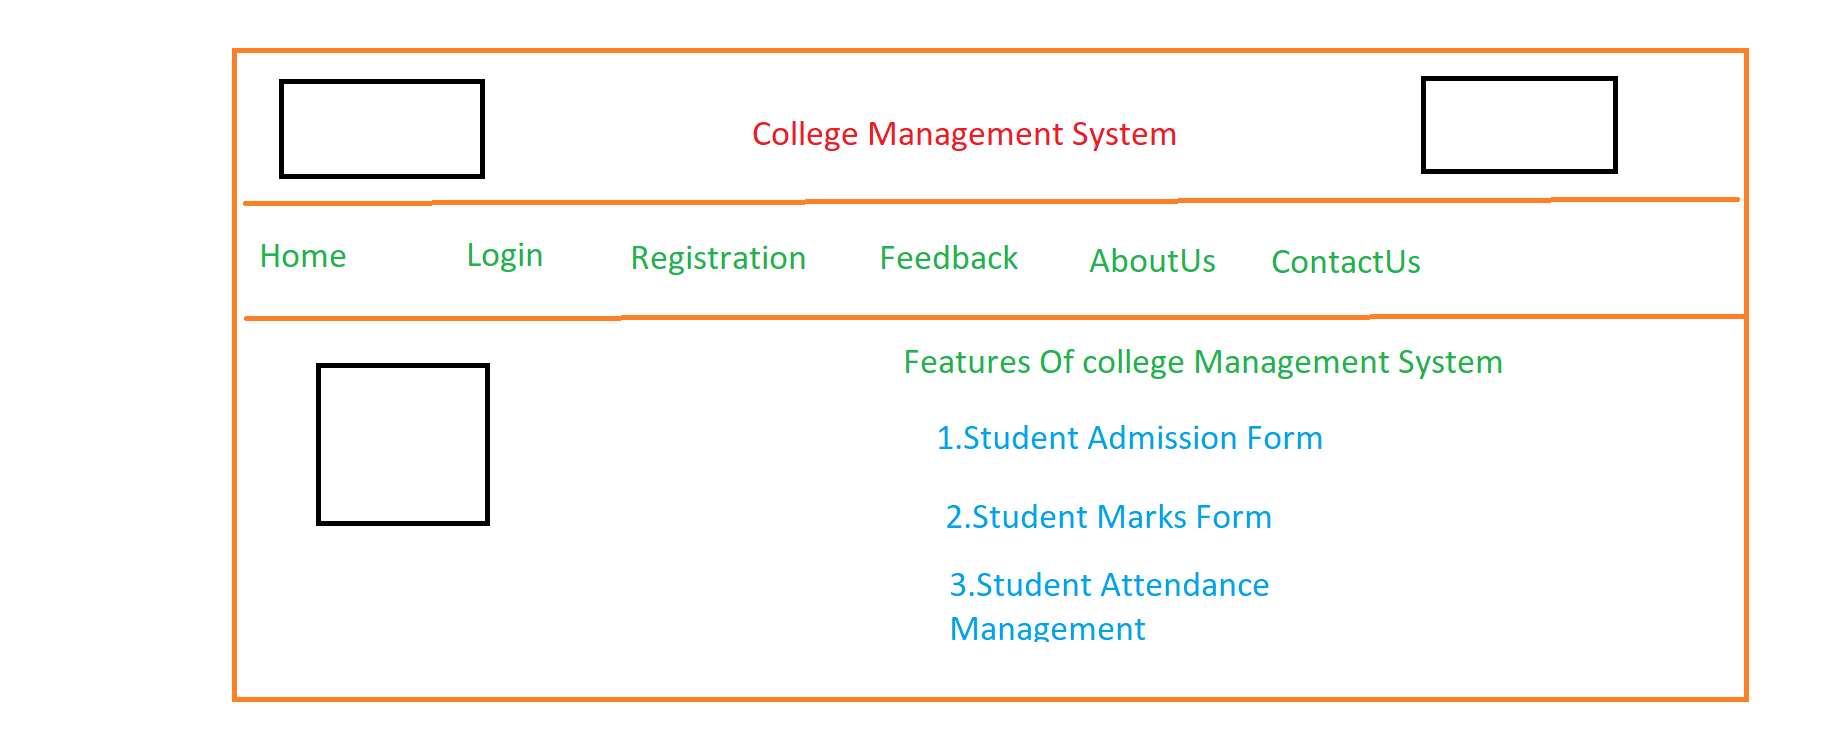
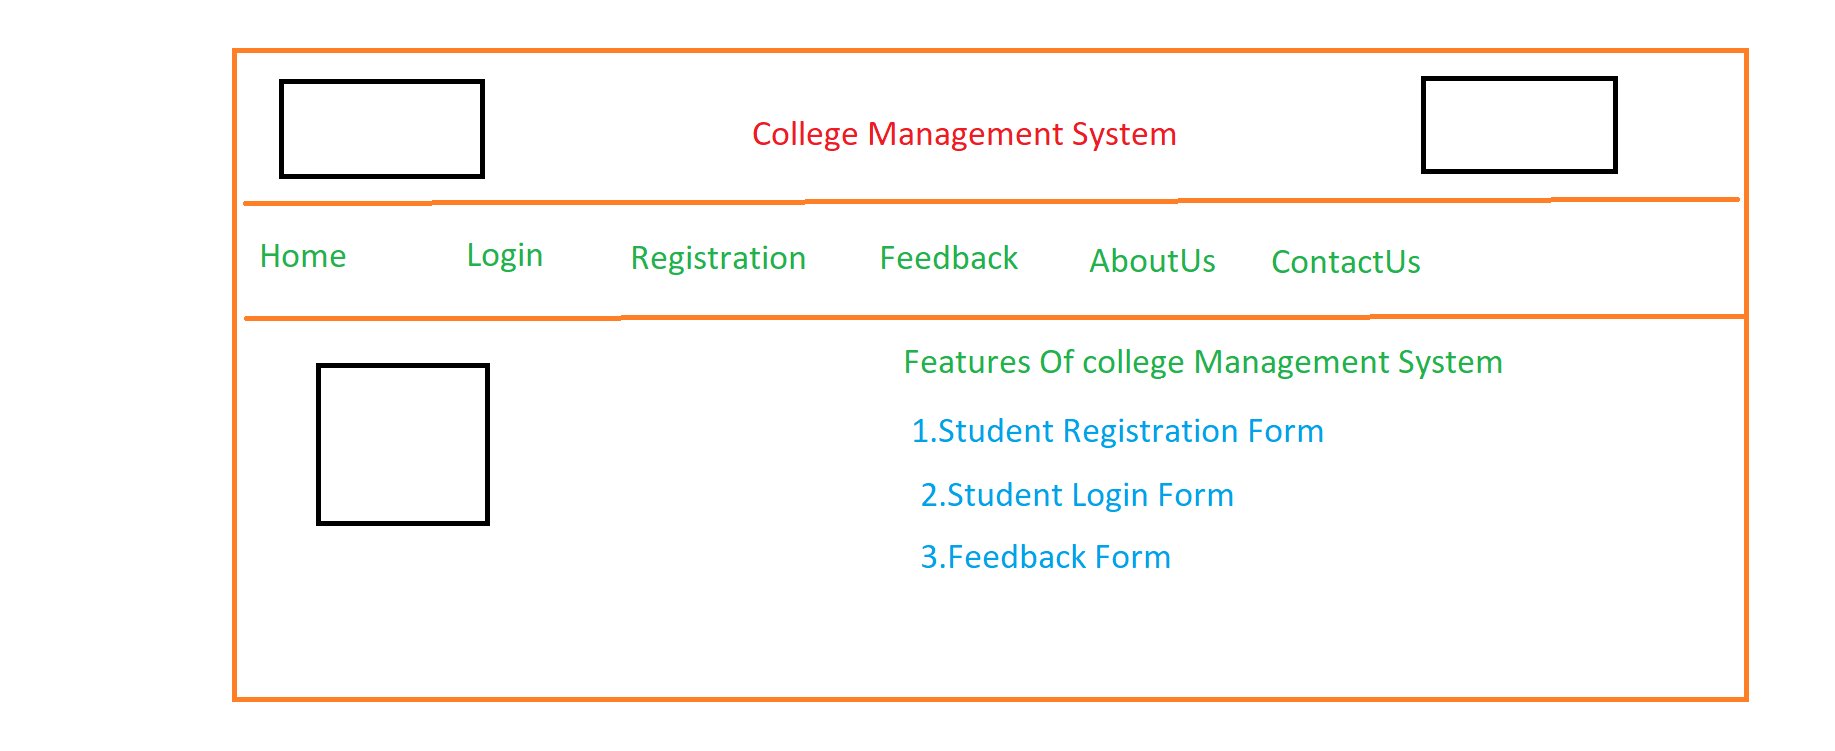
Sampleproject

diff --git a/Sampleproject/feedback.html b/Sampleproject/feedback.html
@@ -1,6 +1,17 @@
 <!DOCTYPE html>
 <html>
     <head>
+        <title>Feedback Form</title>
+        <link href="sample.css" rel="stylesheet"/>
+        <style>
+            .a6{
+                text-align: center;
+                border: 2px solid black;
+                margin-top: 10px;
+                background-color: lightblue;
+                padding: 10%;
+            }
+        </style>
        <script>
            function myfun()
            {
@@ -12,19 +23,26 @@
       var r=/^[2][2][1][7][1][0][3][0-9]{2}[0-9]{3}$/;
       if(e.test(mail)&&r.test(rollno))
       {
-          window.alert("Valid");
+          window.alert("Successful");
       }
       else{
-          window.alert("Invalid");
+          window.alert("Invalid details");
       }
 }
 
        </script>
     </head>
     <body>
+        <div class="main">
+            <img class="a1" src="1.jpg" height="=100px" width="100px"/> 
+            <img class="a3" src="1.jpg" height="=100px" width="100px"/>
+            <h1 class="a2">Feedback Form</h1>
+        </div>
+        <div class="a6">
         Username  :<input type="text" id="txtUsername"/><br />
         Emailid      :<input type="text" id="txtEmailid"/><br />
         Rollno    :<input type="number" id="txtRollno"/><br />
-        <button type="button" onclick="myfun()">validate</button>
+        <button type="button" onclick="myfun()">Submit</button>
+        </div>
     </body>
 </html>

diff --git a/Sampleproject/registration.html b/Sampleproject/registration.html
@@ -2,14 +2,32 @@
 <html>
     <head>
            <script src="reg.js"></script>
+           <link href="sample.css" rel="stylesheet"/>
+               <style>
+                  .a7{
+                    text-align: center;
+                border: 2px solid black;
+                margin-top: 10px;
+                background-color: lightblue;
+                padding: 5%;
+        }
+                  
+               </style>
     </head>
     <body>
+        <div class="main">
+            <img class="a1" src="1.jpg" height="=100px" width="100px"/> 
+            <img class="a3" src="1.jpg" height="=100px" width="100px"/>
+            <h1 class="a2">Feedback Form</h1>
+        </div>
+        <div class="a7">
         Username:<input type="text" id="txtUsername"/><br />
         Emailid:<input type="text" id="txtEmailid"/><br />
         Mobilenumber:<input type="text" id="txtMobile"/><br />
         Joiningyear:<input type="number" id="txtjoin"/><br />
         Passoutyear:<input type="number" id="txtPassout"/><br />
         Rollno:<input type="number" id="txtRollno"/><br />
-        <button type="button" onclick="myfun()">validate</button>
+        <button type="button" onclick="myfun()">Submit</button>
+        </div>
     </body>
 </html>

diff --git a/Sampleproject/sampleproj.html b/Sampleproject/sampleproj.html
@@ -17,12 +17,12 @@
         </div>
         </div>
         <nav>
-            <a href="">Home</a>
+            <a href="home.html" target="__self">Home</a>
             <a href="">About Us</a>
-            <a href="">Contact Us</a>
-            <a href="feedback.html">Feedback</a>
-            <a href="login.html">Login</a>
-            <a href="registration.html">Registration</a>
+            <a href="contact.html" target="__self">Contact Us</a>
+            <a href="feedback.html" target="__self">Feedback</a>
+            <a href="login.html" target="__self">Login</a>
+            <a href="registration.html" target="__self">Registration</a>
         </nav>
         <div>
             <div class="a4">
@@ -31,9 +31,9 @@
         <div class="a4">
             <h3>Features Of College Management System</h3>
             <p>1.Student Admission</p>
-            <p>2.Student Fee Management</p>
-            <p>3.Student Attendance Management</p>
-            <p>4.Staff Attendance Management</p>
+            <p>2.Student Registration Form</p>
+            <p>3.Student Login Form</p>
+            <p>4.Feedback Form</p>
             <p>5.Student Report</p>
         </div>
         </div>

diff --git a/Sampleproject/login.html b/Sampleproject/login.html
@@ -1,6 +1,17 @@
 <!DOCTYPE html>
 <html>
 <head>
+    <title>Login Form</title>
+    <link href="sample.css" rel="stylesheet"/>
+    <style>
+        #p{
+            text-align: center;
+                border: 2px solid black;
+                margin-top: 10px;
+                background-color: lightblue;
+                padding: 10%;
+        }
+    </style>
 <script>
     function myfun()
     {
@@ -17,8 +28,15 @@
 </script>
 </head>
 <body>
+    <div class="main">
+        <img class="a1" src="1.jpg" height="=100px" width="100px"/> 
+        <img class="a3" src="1.jpg" height="=100px" width="100px"/>
+        <h1 class="a2">Feedback Form</h1>
+    </div>
+    <div id="p">
     Username:<input type="text" id="txtUsername"/><br />
     Password:<input type="password" id="txtPassword"/><br />
     <button type="button" onclick="myfun()">validate</button>
+    </div>
 </body>
 </html>

diff --git a/Sampleproject/contact.html b/Sampleproject/contact.html
@@ -1,0 +1,28 @@
+<!DOCTYPE html>
+<html>
+    <head>
+        <title>contact details</title>
+        <link href="sample.css" rel="stylesheet"/>
+        <style>
+            .a{
+                font-family: Verdana, Geneva, Tahoma, sans-serif;
+                text-align: center;
+            }
+        </style>
+    </head>
+    <body>
+    <div class="main">
+        <img class="a1" src="1.jpg" height="=100px" width="100px"/> 
+        <img class="a3" src="1.jpg" height="=100px" width="100px"/>
+        <h1 class="a2">Contact Details</h1>
+    </div>
+    <div class="a">
+        <h3 class="a">For any queries contact:</h3>
+        <p class="a">Dr.N.Venu Kumar</p>
+        <p class="a">Director Training Placements</p>
+        <p class="a">tnp.director@gitam.edu</p>
+        <p class="a">9618868234</p>
+        <p class="a">08455-221311</p>
+    </div>
+    </body>
+</html>

diff --git a/Sampleproject/home.html b/Sampleproject/home.html
@@ -1,0 +1,19 @@
+<!DOCTYPE html>
+<html>
+    <head>
+        <title>Home</title>
+        <link href="sample.css" rel="stylesheet"/>
+        <style>
+            .a2{
+                    font-size: xx-large;
+            }
+        </style>
+    </head>
+    <body>
+        <div class="main">
+            <img class="a1" src="1.jpg" height="=100px" width="100px"/> 
+            <img class="a3" src="1.jpg" height="=100px" width="100px"/>
+            <a href="sampleproj.html" class="a2">HOME</a>
+        </div>
+    </body>
+</html>

diff --git a/Sampleproject/reg.js b/Sampleproject/reg.js
@@ -13,9 +13,9 @@ function myfun()
     var p=/^[2][0][2][1]$/;
     if(e.test(email)&&m.test(mobile)&&j.test(join)&&p.test(pass)&&r.test(roll))
     {
-        window.alert("valid");
+        window.alert("Registration Successful");
     }
     else{
-        window.alert("invalid");
+        window.alert("Registration Unsuccessful");
     }
 }

diff --git a/Sampleproject/sample.css b/Sampleproject/sample.css
@@ -1,7 +1,7 @@
 .main{
     display: inline-block;
     border: 3px solid black;
-    background-color: aqua;
+    background-color: lightcyan;
     text-align: center;
     width: 100%;
 }
